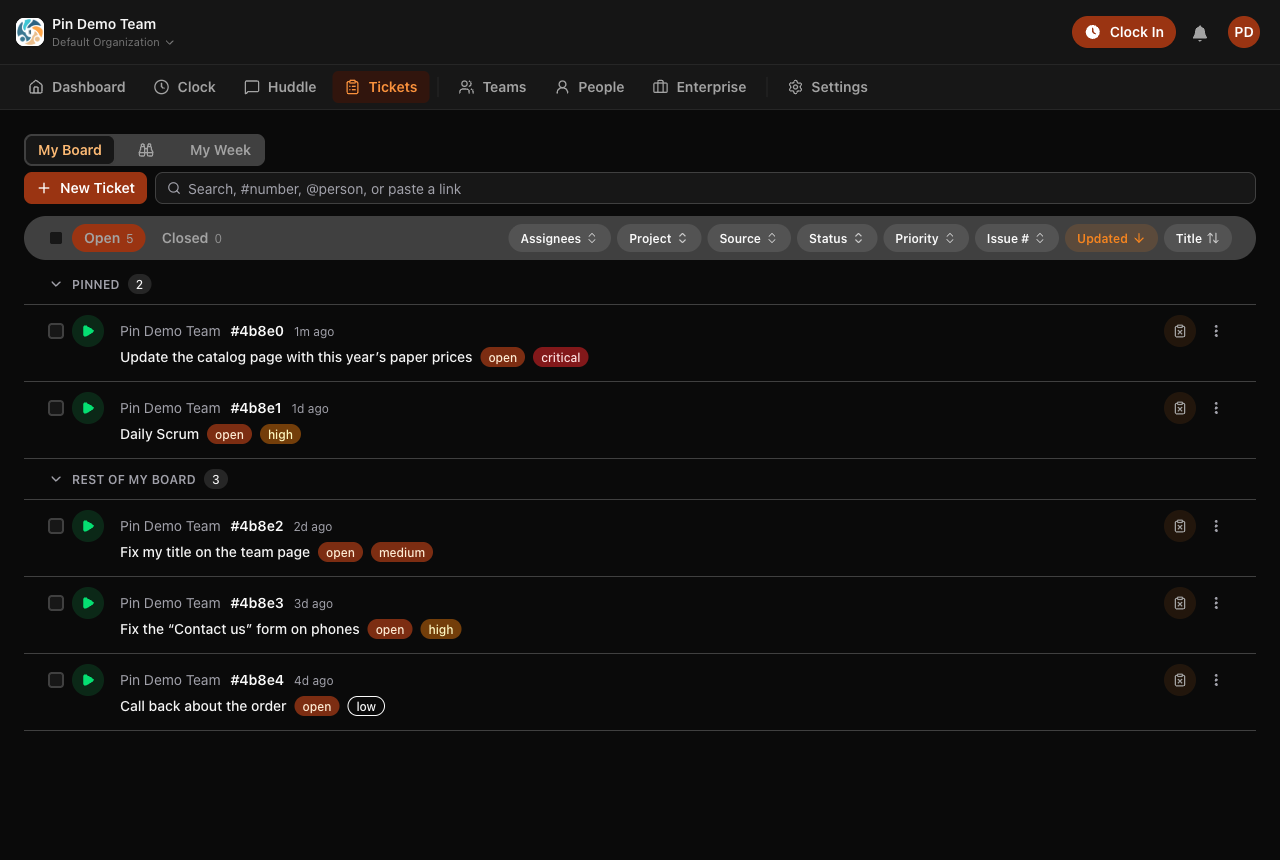
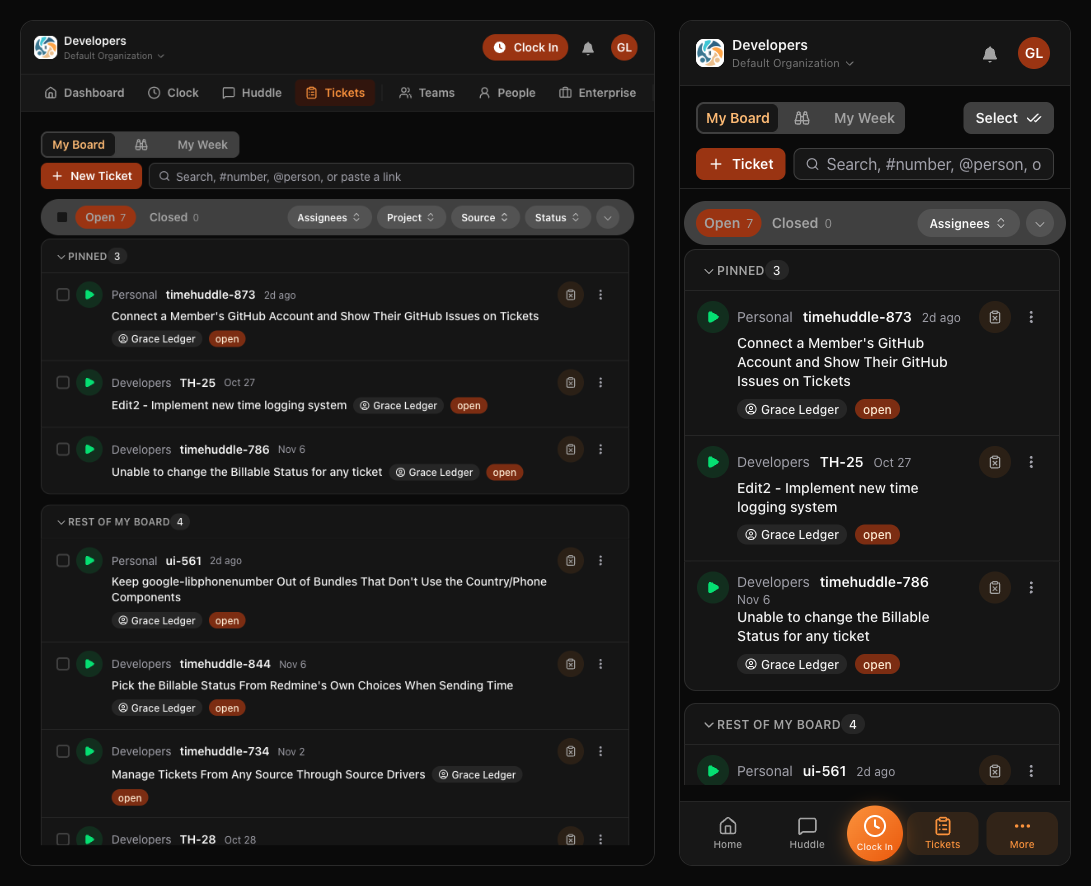
docs(release-notes): My Board pins screenshot at tablet and phone width (#884)

diff --git a/release-notes/1.2.0.md b/release-notes/1.2.0.md
@@ -142,7 +142,7 @@ a keyboard, focus it and press Alt+↑ or Alt+↓. Pins are saved to your accoun
 so they're the same on every device, and a ticket's pin goes when it comes off
 your board. Either section folds away from its heading.
 
-![My Board with two pinned tickets above the rest of the board](assets/1.2.0/my-board-pinned.png)
+![My Board on a tablet and a phone: three pinned tickets above the rest of the board](assets/1.2.0/my-board-pinned.png)
 
 ## Pulse opens from its own link
 
